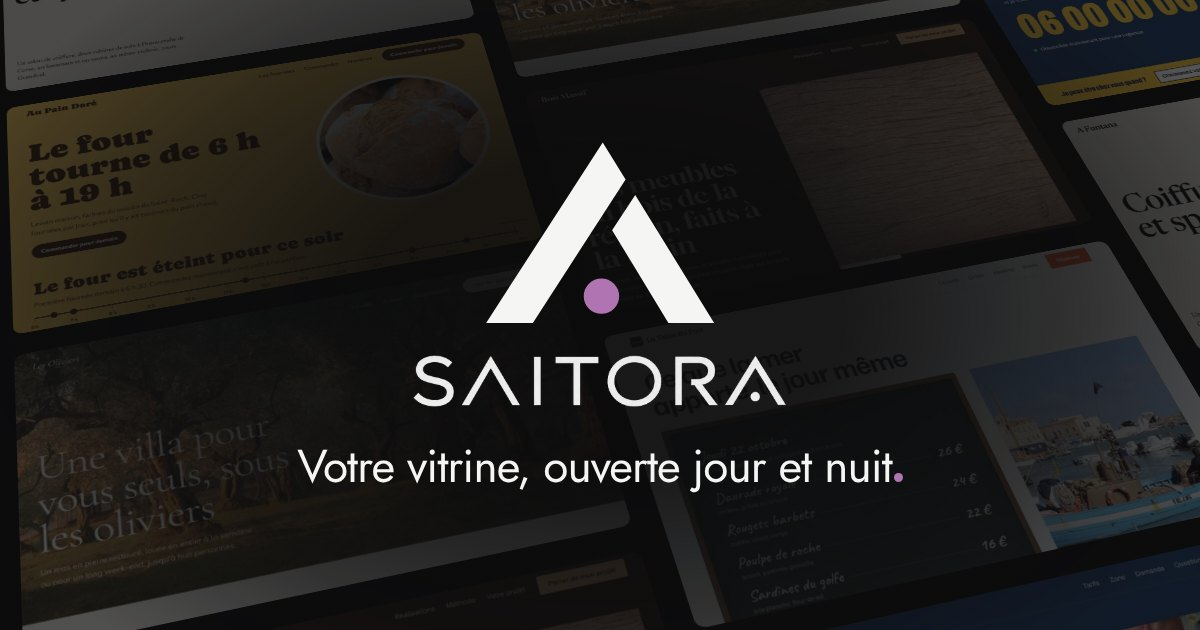
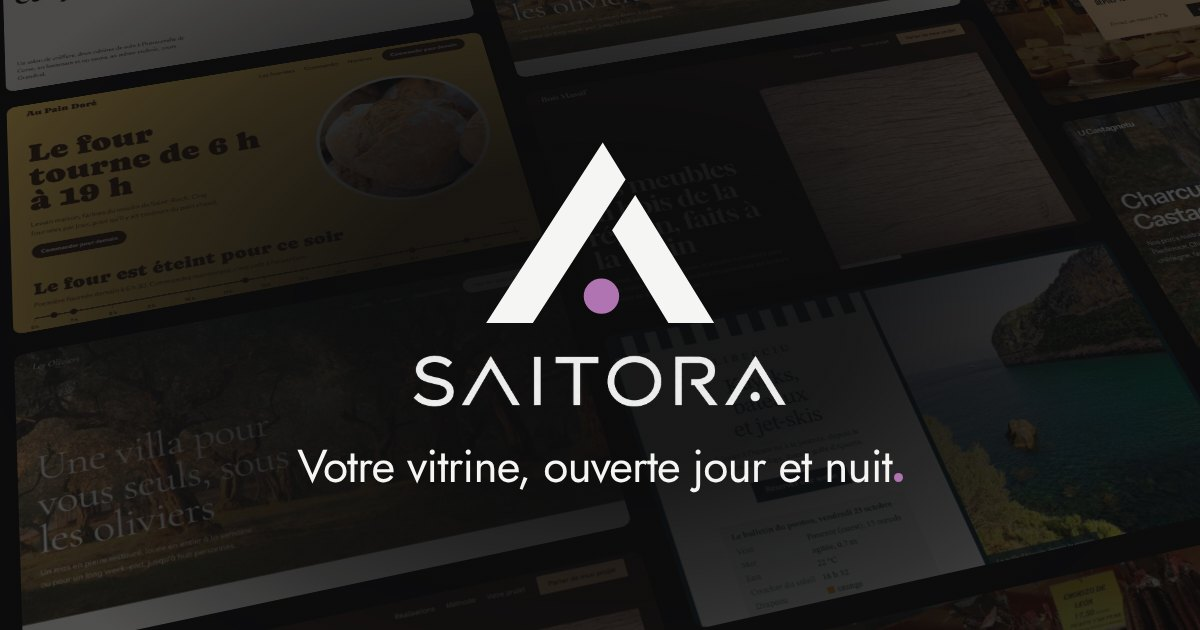
Démos terminées : photos de Libecciu, Zia Rosa, U Castagnetu et du spa A Funtana, aperçus, et les trois nouvelles démos reliées au site
- 33 photos Pixabay téléchargées et vérifiées une à une (recherches corrigées quand la photo ne collait pas : vraies châtaignes, séchoir enfumé, épicerie, etc.), sources dans images/<démo>/SOURCES.txt
- photos.py : Pixabay refusait l'agent par défaut de Python (403)
- apercus.js : captures en français (Libecciu suit la langue du navigateur)
- Accueil : neuf démos (cartes, filtre « Producteur », bas de page) ; une dernière carte seule prend toute la ligne
- Mur de l'écran d'entrée, image de partage, styles du devis et plan du site mis à jour
- A-FAIRE et README à jour

Claude-Session: https://claude.ai/code/session_01KY4Lmdwtoxq6Pi6cCXjLMC

Changed region(s): [[0.555, 0.0, 1.0, 0.9952], [0.8017, 0.8746, 1.0, 1.0]]

diff --git a/accueil.html b/accueil.html
@@ -94,6 +94,10 @@ img,video{display:block;max-width:100%}
 .chip[aria-pressed="true"]{color:var(--ink)}
 .chip[aria-pressed="true"]::before{transform:scale(1)}
 .grid{display:grid;grid-template-columns:repeat(2,1fr);gap:20px}
+/* nombre impair de démos : la dernière prend toute la ligne, texte à gauche et écrans à droite */
+.grid .proj:last-child:nth-child(odd){grid-column:1/-1;display:grid;grid-template-columns:1fr 1fr;grid-auto-rows:min-content;column-gap:40px;min-height:400px}
+.grid .proj:last-child:nth-child(odd) > :not(.stage){grid-column:1}
+.grid .proj:last-child:nth-child(odd) .stage{grid-column:2;grid-row:1 / span 5;align-self:end;height:340px;margin-top:0}
 .proj{position:relative;display:flex;flex-direction:column;min-height:520px;padding:32px 32px 0;border-radius:12px;overflow:hidden;
   background:var(--bg);color:var(--fg);text-decoration:none;transition:transform 250ms var(--ease-out)}
 .proj .sector{font-size:15px;opacity:.75}
@@ -233,6 +237,8 @@ form.add input:focus,form.add select:focus{outline:none;border-color:var(--accen
   .bar .theme-toggle{margin-left:auto}
   .hero{grid-template-columns:1fr;gap:40px}
   .grid{grid-template-columns:1fr}
+  .grid .proj:last-child:nth-child(odd){display:flex;min-height:0}
+  .grid .proj:last-child:nth-child(odd) .stage{height:240px;margin-top:auto}
   .proj{min-height:0}
   .proj .stage{height:240px}
   .timeline{grid-template-columns:1fr;gap:36px}
@@ -311,8 +317,8 @@ form.add input:focus,form.add select:focus{outline:none;border-color:var(--accen
     <section class="work page" id="vitrines">
       <div class="work-head">
         <div>
-          <h2>Six commerces, six sites qui leur ressemblent</h2>
-          <p>Six exemples pour six métiers, pour vous montrer ce qu'un site peut faire pour vous. Le vôtre sera fait à votre image, avec votre logo et vos couleurs.</p>
+          <h2>Neuf commerces, neuf sites qui leur ressemblent</h2>
+          <p>Neuf exemples pour neuf métiers, pour vous montrer ce qu'un site peut faire pour vous. Le vôtre sera fait à votre image, avec votre logo et vos couleurs.</p>
         </div>
         <div class="filters" id="chips" role="group" aria-label="Filtrer par métier"></div>
       </div>
@@ -416,7 +422,7 @@ form.add input:focus,form.add select:focus{outline:none;border-color:var(--accen
           <p>Sites vitrines sur mesure pour les restaurants, les artisans et les commerces de Corse. Depuis Ajaccio, partout sur l'île.</p>
         </div>
         <nav aria-label="Le site"><h3>Le site</h3><a href="#vitrines">Réalisations</a><a href="#methode">Méthode</a><a href="tarifs.html" data-transition="Les tarifs">Tarifs</a><a href="charte.html" data-transition="Votre charte graphique">Créer ma charte graphique</a><a href="#apropos">À propos</a><a href="#contact">Contact</a><a href="devis.html" data-transition="Construisons votre site">Demander un devis</a></nav>
-        <nav aria-label="Les démos"><h3>Les démos</h3><a href="demo-table-du-port.html" target="_blank" rel="noopener">La Table du Port</a><a href="demo-durand-plomberie.html" target="_blank" rel="noopener">Durand Plomberie</a><a href="demo-a-funtana.html" target="_blank" rel="noopener">A Funtana</a><a href="demo-pain-dore.html" target="_blank" rel="noopener">Au Pain Doré</a><a href="demo-villa-oliviers.html" target="_blank" rel="noopener">Villa Les Oliviers</a><a href="demo-bois-massif.html" target="_blank" rel="noopener">Atelier Bois Massif</a></nav>
+        <nav aria-label="Les démos"><h3>Les démos</h3><a href="demo-table-du-port.html" target="_blank" rel="noopener">La Table du Port</a><a href="demo-durand-plomberie.html" target="_blank" rel="noopener">Durand Plomberie</a><a href="demo-a-funtana.html" target="_blank" rel="noopener">A Funtana</a><a href="demo-pain-dore.html" target="_blank" rel="noopener">Au Pain Doré</a><a href="demo-villa-oliviers.html" target="_blank" rel="noopener">Villa Les Oliviers</a><a href="demo-bois-massif.html" target="_blank" rel="noopener">Atelier Bois Massif</a><a href="demo-libecciu.html" target="_blank" rel="noopener">Libecciu</a><a href="demo-zia-rosa.html" target="_blank" rel="noopener">Épicerie Zia Rosa</a><a href="demo-castagnetu.html" target="_blank" rel="noopener">U Castagnetu</a></nav>
         <div class="foot-contact"><h3>Contact</h3><a href="mailto:contact@saitora.fr">contact@saitora.fr</a><p>Réponse sous 24 heures</p></div>
       </div>
       <div class="foot-bottom"><span>© 2026 Saitora, Ajaccio</span><a href="mentions-legales.html">Mentions légales et confidentialité</a><a href="cgv.html">Conditions de vente</a><a href="#accueil-haut">Revenir en haut</a></div>
@@ -460,7 +466,10 @@ const DEMOS = [
   {name:"A Funtana", sector:"Beauté", desc:"Coiffure, soins et hammam au même endroit : on compose son moment en une phrase, et on réserve.", url:"demo-a-funtana.html", bg:"#DEDAD3", fg:"#0A0A0A", ac:"#256F82", feats:["Moment à composer","Carte des soins","Réservation"]},
   {name:"Au Pain Doré", sector:"Commerce", desc:"Une boulangerie qui affiche ses fournées en direct et prend les commandes pour le lendemain.", url:"demo-pain-dore.html", bg:"#EFC35A", fg:"#3A2210", ac:"#C2361F", feats:["Fournées en direct","Commande à retirer","Panier"]},
   {name:"Villa Les Oliviers", sector:"Location", desc:"Une villa qui se visite sur son plan et se loue en direct, avec le prix calculé selon la saison.", url:"demo-villa-oliviers.html", bg:"#2F3A24", fg:"#FBFBF8", ac:"#B9C49A", feats:["Plan interactif","Calendrier","Devis instantané"]},
-  {name:"Atelier Bois Massif", sector:"Artisan", desc:"Un ébéniste qui fait choisir son bois et montre ses meubles avec leurs vraies cotes.", url:"demo-bois-massif.html", bg:"#2B1E15", fg:"#F3EFE8", ac:"#C49A6C", feats:["Choix des essences","Réalisations cotées","Demande de projet"]}
+  {name:"Atelier Bois Massif", sector:"Artisan", desc:"Un ébéniste qui fait choisir son bois et montre ses meubles avec leurs vraies cotes.", url:"demo-bois-massif.html", bg:"#2B1E15", fg:"#F3EFE8", ac:"#C49A6C", feats:["Choix des essences","Réalisations cotées","Demande de projet"]},
+  {name:"Libecciu", sector:"Location", desc:"Un loueur de kayaks et de bateaux qui publie la mer du jour et prend les réservations, en trois langues.", url:"demo-libecciu.html", bg:"#0B2A33", fg:"#FFFFFF", ac:"#8FE3D6", feats:["Bulletin de mer","Flotte et réservation","Français, anglais, italien"]},
+  {name:"Épicerie Zia Rosa", sector:"Commerce", desc:"Une épicerie de village qui affiche ses rayons et livre les hameaux, commande comprise.", url:"demo-zia-rosa.html", bg:"#161C1A", fg:"#E3E2DA", ac:"#C8A577", feats:["Rayons et prix","Tournée des hameaux","Commande"]},
+  {name:"U Castagnetu", sector:"Producteur", desc:"Un éleveur de Castagniccia qui raconte son année mois par mois et vend à la ferme et sur les marchés.", url:"demo-castagnetu.html", bg:"#23422B", fg:"#FFFFFF", ac:"#C8A577", feats:["Almanach de la ferme","Produits de saison","Marchés et vente à la ferme"]}
 ];
 
 const esc = s => String(s).replace(/[&<>"']/g, m => ({"&":"&amp;","<":"&lt;",">":"&gt;",'"':"&quot;","'":"&#39;"}[m]));

diff --git a/devis.html b/devis.html
@@ -272,7 +272,7 @@ const EMAIL = "contact@saitora.fr";
 const FORM_ENDPOINT = "";
 const SECTORS = [["Restaurant, bar, café","Carte, réservation, horaires"],["Artisan, BTP","Services, zone, devis"],["Beauté, bien-être","Tarifs, prise de rendez-vous"],["Commerce, boutique","Produits, commande à retirer"],["Location, hébergement","Photos, calendrier, tarifs"],["Autre activité","On s'adapte à votre métier"]];
 const NEEDS = [["Présenter mon activité","Qui vous êtes, ce que vous faites"],["Être trouvé sur Google","Référencement local de base"],["Réservation ou prise de RDV","Vos clients réservent en ligne"],["Commande à retirer","Click & collect, paiement sur place"],["Demande de devis","Formulaire guidé pour vos clients"],["Galerie photos","Vos réalisations, votre lieu"],["Carte ou tarifs","Toujours à jour, facile à modifier"],["Avis clients","Mettre en avant vos avis"]];
-const STYLES = [["table-du-port","La Table du Port","L'ardoise du bord de mer"],["durand-plomberie","Durand Plomberie","Franc et direct"],["a-funtana","A Funtana","Calme et lumineux"],["pain-dore","Au Pain Doré","Gourmand et chaleureux"],["villa-oliviers","Villa Les Oliviers","Nature et élégant"],["bois-massif","Bois Massif","Artisanal et sobre"],["","Je ne sais pas encore","Conseillez-moi"]];
+const STYLES = [["table-du-port","La Table du Port","L'ardoise du bord de mer"],["durand-plomberie","Durand Plomberie","Franc et direct"],["a-funtana","A Funtana","Calme et lumineux"],["pain-dore","Au Pain Doré","Gourmand et chaleureux"],["villa-oliviers","Villa Les Oliviers","Nature et élégant"],["bois-massif","Bois Massif","Artisanal et sobre"],["libecciu","Libecciu","Marin et rayé"],["zia-rosa","Zia Rosa","Kraft et à l'ancienne"],["castagnetu","U Castagnetu","Terroir et éditorial"],["","Je ne sais pas encore","Conseillez-moi"]];
 const SITUATION = { site:["Pas encore","Oui, à refaire"], domain:["Oui","Non","Je ne sais pas"], when:["Au plus vite","Dans le mois","Pas pressé"] };
 const LABELS = { sector:"Activité", needs:"Besoins", style:"Style", charte:"Charte graphique", site:"Site actuel", domain:"Nom de domaine", when:"Délai", contact:"Contact" };
 // charte graphique préparée sur charte.html (gardée sur l'appareil quelques jours), jointe à la demande

diff --git a/index.html b/index.html
@@ -104,8 +104,8 @@ h1 .d{display:inline-block;width:.2em;height:.2em;border-radius:50%;background:v
 <p class="foot">Sites vitrines pour les restaurants, les artisans et les commerces de Corse</p>
 
 <script>
-// le mur de fond : nos six sites, deux fois par colonne pour que le défilement boucle sans couture
-const SITES = ["table-du-port","durand-plomberie","a-funtana","pain-dore","villa-oliviers","bois-massif"];
+// le mur de fond : nos neuf sites, deux fois par colonne pour que le défilement boucle sans couture
+const SITES = ["table-du-port","durand-plomberie","a-funtana","pain-dore","villa-oliviers","bois-massif","libecciu","zia-rosa","castagnetu"];
 const cols = matchMedia("(orientation: portrait)").matches ? 3 : 4;   // écran en hauteur : 3 colonnes plus longues
 const track = document.getElementById("track");
 // le mur est construit à 1300 px de large puis agrandi pour couvrir l'écran

diff --git a/outils/apercus.js b/outils/apercus.js
@@ -13,8 +13,8 @@ const DEMOS = fs.readdirSync(ROOT).filter(f => /^demo-.*\.html$/.test(f) && (!ON
 (async () => {
   const tmp = fs.mkdtempSync(path.join(os.tmpdir(), "apercus-"));
   const browser = await chromium.launch(process.env.CHROMIUM ? { executablePath: process.env.CHROMIUM } : {});
-  const page = await browser.newPage({ viewport: { width: 1280, height: 800 } });
-  const phone = await browser.newPage({ viewport: { width: 390, height: 844 }, deviceScaleFactor: 2 });
+  const page = await browser.newPage({ viewport: { width: 1280, height: 800 }, locale: "fr-FR" });   // en français (Libecciu suit la langue du navigateur)
+  const phone = await browser.newPage({ viewport: { width: 390, height: 844 }, deviceScaleFactor: 2, locale: "fr-FR" });
   for (const file of DEMOS) {
     await page.goto("file://" + path.join(ROOT, file));
     await page.evaluate(() => document.fonts.ready);

diff --git a/outils/partage.html b/outils/partage.html
@@ -30,8 +30,8 @@ h1 .d{display:inline-block;width:.2em;height:.2em;border-radius:50%;background:#
   <h1>Votre vitrine, ouverte jour et nuit<span class="d"></span></h1>
 </div>
 <script>
-const SITES = ["table-du-port","durand-plomberie","a-funtana","pain-dore","villa-oliviers","bois-massif"];
-document.getElementById("tilt").innerHTML = [0,1,2,3].map(c => `<div class="col">${[0,1,2,3].map(i => `<img src="../media/apercus/${SITES[(c * 2 + i) % 6]}.webp" alt="">`).join("")}</div>`).join("");
+const SITES = ["table-du-port","durand-plomberie","a-funtana","pain-dore","villa-oliviers","bois-massif","libecciu","zia-rosa","castagnetu"];
+document.getElementById("tilt").innerHTML = [0,1,2,3].map(c => `<div class="col">${[0,1,2,3].map(i => `<img src="../media/apercus/${SITES[(c * 2 + i) % SITES.length]}.webp" alt="">`).join("")}</div>`).join("");
 </script>
 </body>
 </html>

diff --git a/outils/photos.py b/outils/photos.py
@@ -17,26 +17,26 @@ RACINE = pathlib.Path(__file__).resolve().parent.parent
 PHOTOS = {
     "libecciu": {
         "mer.webp": ("boat turquoise cove mediterranean", "vertical", 1000, 1500),
-        "kayak.webp": ("sea kayak clear water", "vertical", 1000, 1500),
+        "kayak.webp": ("kayak sea", "vertical", 1000, 1500, 2),
         "paddle.webp": ("stand up paddle sea", "vertical", 1000, 1500),
-        "bateau.webp": ("small motor boat anchored rocks", "vertical", 1000, 1500),
-        "semirigide.webp": ("rib boat speed sea", "vertical", 1000, 1500),
-        "jetski.webp": ("jet ski", "vertical", 1000, 1500),
-        "coucher.webp": ("sunset sea islands", "vertical", 1000, 1500),
+        "bateau.webp": ("motorboat sea", "vertical", 1000, 1500, 6),
+        "semirigide.webp": ("motorboat sea", "vertical", 1000, 1500, 7),
+        "jetski.webp": ("jet ski", "vertical", 1000, 1500, 2),
+        "coucher.webp": ("sunset sea boat mediterranean", "vertical", 1000, 1500, 8),
         "crique-pins.webp": ("pine trees beach cove", "all", 900, 900),
         "crique-tour.webp": ("genoese tower corsica", "all", 900, 900),
         "crique-sanguinaires.webp": ("sanguinaires islands", "all", 900, 900),
     },
     "zia-rosa": {
-        "interieur.webp": ("old grocery store shelves", "horizontal", 1600, 1000),
+        "interieur.webp": ("delicatessen shelves", "horizontal", 1600, 1000, 13),
         "vallee.webp": ("mountain road corsica", "horizontal", 1600, 1000),
         "coupe-comptoir.webp": ("sliced charcuterie board", "all", 700, 700),
         "cave.webp": ("wine bottles shelf", "all", 700, 700),
-        "pain.webp": ("rustic bread loaves", "vertical", 600, 750),
+        "pain.webp": ("bread loaves bakery", "vertical", 600, 750, 9),
         "journaux.webp": ("newspapers stack", "vertical", 600, 750),
         "coupe.webp": ("cured ham slicing", "vertical", 600, 750),
-        "camionnette.webp": ("old delivery van village", "vertical", 600, 750),
-        "legumes.webp": ("vegetables crate garden", "vertical", 600, 750),
+        "camionnette.webp": ("vintage van", "vertical", 600, 750, 14),
+        "legumes.webp": ("vegetables market crate", "vertical", 600, 750, 8),
         "village.webp": ("corsica village evening", "vertical", 600, 750),
     },
     "funtana": {   # les photos de coiffure sont déjà là (reprises de l'ancienne démo du salon)
@@ -45,22 +45,26 @@ PHOTOS = {
         "immortelle.webp": ("helichrysum flowers", "vertical", 800, 1000),
     },
     "castagnetu": {
-        "chataigneraie.webp": ("pigs chestnut forest", "horizontal", 1800, 1100),
-        "sechoir.webp": ("wood smoke old house", "horizontal", 1800, 1100),
-        "automne.webp": ("chestnut forest autumn", "horizontal", 1800, 1100),
+        "chataigneraie.webp": ("pigs forest", "horizontal", 1800, 1100, 13),
+        "sechoir.webp": ("hams hanging", "all", 1800, 1100, 5),
+        "automne.webp": ("autumn forest sunlight", "horizontal", 1800, 1100, 7),
         "figatellu.webp": ("smoked sausage", "horizontal", 440, 294),
-        "farine.webp": ("chestnut flour", "horizontal", 440, 294),
-        "cave.webp": ("hams hanging cellar", "vertical", 840, 1050),
-        "village.webp": ("corsica mountain village", "vertical", 720, 1060),
-        "chataignes.webp": ("chestnuts burr", "vertical", 1000, 1250),
-        "foret.webp": ("chestnut trees fog", "vertical", 720, 1060),
-        "ferme.webp": ("stone farmhouse mountain", "all", 320, 320),
+        "farine.webp": ("flour bag rustic", "horizontal", 440, 294, 8),
+        "cave.webp": ("hams hanging", "all", 840, 1050, 2),
+        "village.webp": ("stone house mountains", "all", 720, 1060, 13),
+        "chataignes.webp": ("sweet chestnuts", "vertical", 1000, 1250, 4),
+        "foret.webp": ("forest fog", "vertical", 720, 1060, 8),
+        "ferme.webp": ("stone house mountains", "all", 320, 320, 6),
     },
 }
 
+# Pixabay refuse l'agent par défaut de Python (403) : on se présente comme curl
+def ouvre(url, timeout):
+    return urllib.request.urlopen(urllib.request.Request(url, headers={"User-Agent": "curl/8"}), timeout=timeout)
+
 def cherche(cle, q, orientation):
     params = {"key": cle, "q": q, "image_type": "photo", "orientation": orientation, "safesearch": "true", "per_page": 20, "order": "popular", "min_width": 1000}
-    with urllib.request.urlopen("https://pixabay.com/api/?" + urllib.parse.urlencode(params), timeout=30) as r:
+    with ouvre("https://pixabay.com/api/?" + urllib.parse.urlencode(params), 30) as r:
         return json.load(r).get("hits", [])
 
 def recadre(data, w, h):
@@ -93,7 +97,7 @@ def main():
             if not hits:
                 print(f"rien trouvé pour {demo}/{f} ({q})"); continue
             hit = hits[min(choix[0] if choix else 0, len(hits) - 1)]
-            with urllib.request.urlopen(hit["largeImageURL"], timeout=60) as r:
+            with ouvre(hit["largeImageURL"], 60) as r:
                 recadre(r.read(), w, h).save(cible, "WEBP", quality=80, method=6)
             notes[f] = f"{hit['pageURL']} (photo de {hit['user']}, licence Pixabay)"
             print(f"ok {demo}/{f}  {hit['pageURL']}")

diff --git a/README.md b/README.md
@@ -22,7 +22,7 @@ Site 100 % statique : pas de build, pas de dépendance, chaque page est un fichi
 | `demo-*.html` | Une démo de site vitrine par secteur. |
 | `media/showreel-clair.*`, `media/showreel-sombre.*` | Vidéo de présentation de la page d'accueil, une version par thème (MP4 + WebM + image d'attente). |
 | `media/apercus/` | Captures des démos affichées dans les cartes de la page d'accueil. |
-| `images/<démo>/` | Photos des démos (Pixabay, licence libre, usage commercial autorisé), en WebP. |
+| `images/<démo>/` | Photos des démos (Pixabay, licence libre, usage commercial autorisé), en WebP, téléchargées par `outils/photos.py` (sources dans `SOURCES.txt`). |
 | `outils/video/` | Film de présentation (demande, plan, design, construction, mise en ligne) et script qui en fabrique la vidéo. |
 | `favicon.svg` | Icône de la page d'accueil (les démos ont chacune la leur, intégrée). |
 
@@ -31,6 +31,8 @@ Site 100 % statique : pas de build, pas de dépendance, chaque page est un fichi
 1. Créer `demo-mon-client.html` (en partant d'une démo existante).
 2. Dans son `<head>`, adapter `<title>`, `description`, `og:*`, `theme-color` et le favicon.
 3. Ajouter une ligne dans la liste `DEMOS` en bas de `accueil.html` (nom, secteur, description, `url`, couleurs de l'aperçu).
+4. Photos : ajouter ses recherches dans `outils/photos.py`, puis `PIXABAY_API_KEY=… python3 outils/photos.py` (vérifier chaque photo ; pour en changer, modifier la recherche ou son rang puis `python3 outils/photos.py fichier.webp`).
+5. Générer ses aperçus (`node outils/apercus.js mon-client`), puis l'ajouter au bas de page de `accueil.html`, au mur de `index.html` et de `outils/partage.html` (puis `node outils/partage.js`), aux styles de `devis.html` et à `sitemap.xml`.
 
 ## Régénérer les aperçus des démos
 

diff --git a/A-FAIRE.md b/A-FAIRE.md
@@ -17,12 +17,6 @@
 - [ ] Créer la fiche Google Business Profile de Saitora (Ajaccio).
 - [ ] Mesure d'audience sans cookies (Plausible ou GoatCounter), si besoin.
 
-## Nouvelles démos (en attente des photos)
-Trois démos sont prêtes mais pas encore reliées au site : `demo-libecciu.html` (location nautique), `demo-zia-rosa.html` (épicerie), `demo-castagnetu.html` (producteur corse).
-- [ ] Ajouter la clé Pixabay dans les réglages de l'environnement, sous le nom `PIXABAY_API_KEY`, puis ouvrir une nouvelle session.
-- [ ] Lancer `python3 outils/photos.py` (33 photos, dont 3 pour le spa A Funtana, déjà en ligne avec des aplats à la place), vérifier chaque photo, en changer au besoin (`python3 outils/photos.py mer.webp`).
-- [ ] Générer les aperçus (`node outils/apercus.js libecciu zia-rosa castagnetu a-funtana`), puis relier les trois démos : liste `DEMOS` et bas de page de `accueil.html`, mur de `index.html`, styles de `devis.html`, `outils/partage.html`, `sitemap.xml`, `README.md`.
-
 ## Idées pour la suite
 - [ ] Lien de reprise de la charte graphique (retrouver sa charte sur un autre appareil, sans compte).
 - [ ] Remplacer les démos par de vraies réalisations (avant / après) et ajouter de vrais avis clients.
